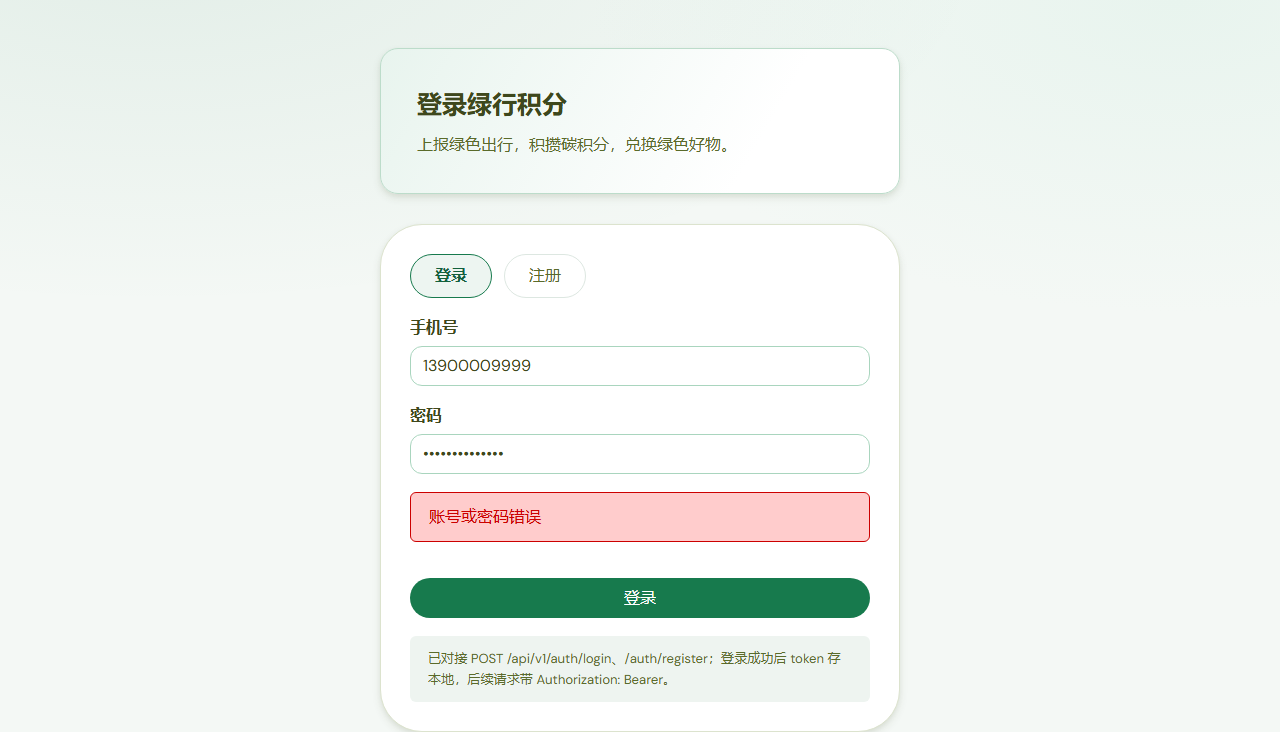
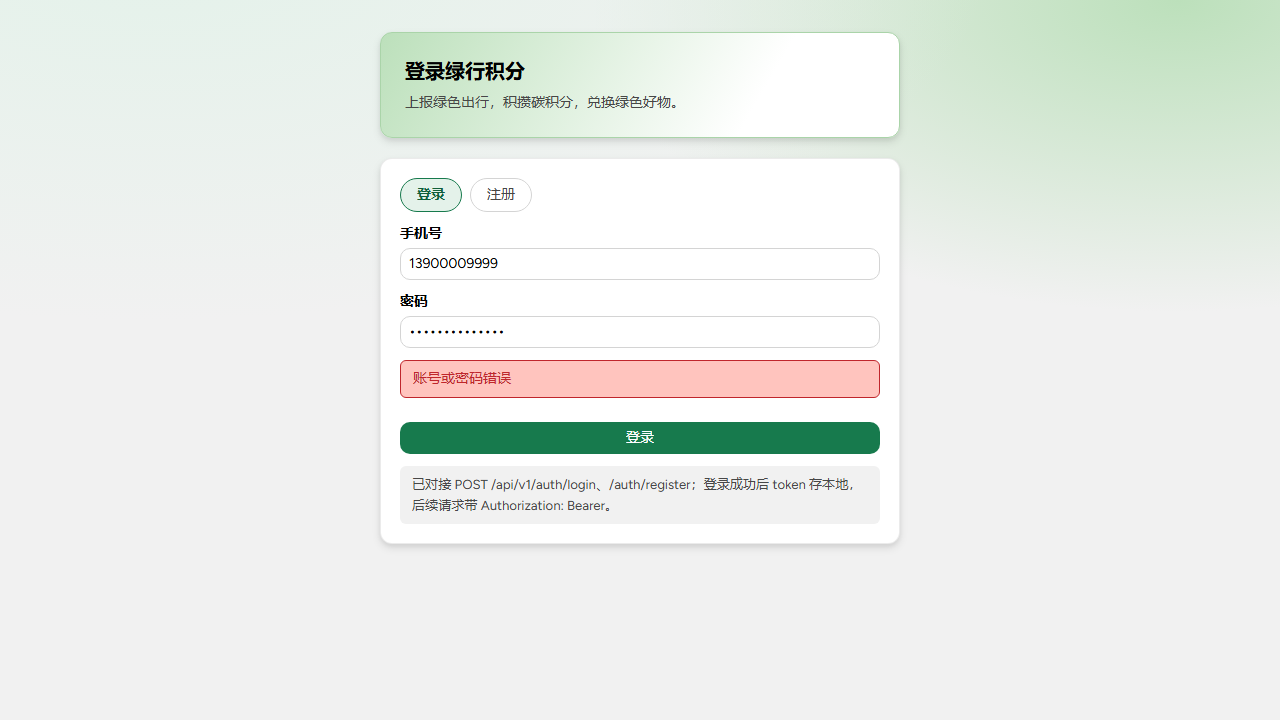
fix(api): 写超时跟随请求超时，避免慢请求被服务器掐断成 502
跨 ZeroTier 访问共享库时，兑换/取消这类写请求要 30s 上下（一个事务 6–8 条
SQL，每条一次跨网往返）。http.Server 的 WriteTimeout 原本写死 30s，比
middleware.Timeout(HTTP_REQUEST_TIMEOUT) 还早到期：handler 还在等数据库，
服务器先把连接关了，浏览器侧看到的是 Vite dev 代理的 502，而后端日志里
留的是一条 status=200 duration_ms≈30000 的成功记录，排查方向完全被带偏。

- apps/api/cmd/server/main.go：新增 serverWriteTimeout(requestTimeout)，
  WriteTimeout = 请求超时 + 15s；默认请求超时 15s 时仍是 30s，行为不变。
- apps/api/cmd/server/main_test.go：新增表驱动用例，固定「写超时晚于请求
  超时」这条不变量（15s→30s、90s→105s、0/负值回落默认）。
- apps/web/e2e/admin-console.e2e.ts：开跑前探一次种子账号登录，口令与当前
  后端不匹配就跳过并说明原因（共享库上 13800000002 的口令与本机开发库不同），
  可用 E2E_ADMIN_* / E2E_CITIZEN_* 环境变量覆盖。
- docs/dev/shared-db.md §6.6：补上超时链路与运营后台种子账号两条坑。
- AGENTS.md：E2E 用例表、超时数值、写超时约束与后台用例跳过策略同步。
- docs/screenshots/*：换用 green-travel 品牌主题后的双 E2E 截图。

diff --git a/apps/web/e2e/admin-console.e2e.ts b/apps/web/e2e/admin-console.e2e.ts
@@ -3,12 +3,39 @@ import { expect, test, type Page } from '@playwright/test'
 /**
  * M8 运营后台主链路（P5-3）：建商品 → 上架 → 消费者下单 → 后台看订单并确认收款。
  *
- * 账号来自本机开发库（scripts 之外的本地操作，不改 db/seed）：
+ * 账号默认来自本机开发库（scripts 之外的本地操作，不改 db/seed）：
  *   - 管理员 13800000002（user 1002，role=ADMIN）
  *   - 消费者 13800000001（user 1001，余额 1200 分）
+ *
+ * 跨机共享库（docs/dev/shared-db.md 里那台）的种子账号口令与本机开发库不同，
+ * 所以这条用例默认只在「接口在本机」时跑；要对着共享库跑，就显式给出
+ * E2E_ADMIN_PHONE / E2E_ADMIN_PASSWORD / E2E_CITIZEN_PHONE / E2E_CITIZEN_PASSWORD。
  */
-const ADMIN = { phone: '13800000002', password: 'admin123456' }
-const CITIZEN = { phone: '13800000001', password: 'demo123456' }
+const ADMIN = {
+  phone: process.env.E2E_ADMIN_PHONE ?? '13800000002',
+  password: process.env.E2E_ADMIN_PASSWORD ?? 'admin123456',
+}
+const CITIZEN = {
+  phone: process.env.E2E_CITIZEN_PHONE ?? '13800000001',
+  password: process.env.E2E_CITIZEN_PASSWORD ?? 'demo123456',
+}
+
+const accountsGiven = Boolean(process.env.E2E_ADMIN_PHONE || process.env.E2E_ADMIN_PASSWORD)
+
+// 开跑前先探一次登录：本机开发库有这两个种子账号，跨机共享库上同 phone 的口令不同。
+// 口令不对时直接跳过并说明原因，不要伪装成「页面卡在登录页」的产品缺陷。
+let skipReason = ''
+
+test.beforeAll(async ({ request }) => {
+  if (accountsGiven) return
+  for (const account of [ADMIN, CITIZEN]) {
+    const res = await request.post('/api/v1/auth/login', { data: account })
+    if (!res.ok()) {
+      skipReason = `种子账号 ${account.phone} 在当前后端登录失败（HTTP ${res.status()}）：该用例默认依赖本机开发库；对着共享库跑请用 E2E_ADMIN_PHONE / E2E_ADMIN_PASSWORD / E2E_CITIZEN_PHONE / E2E_CITIZEN_PASSWORD 覆盖`
+      return
+    }
+  }
+})
 
 async function login(page: Page, account: string, password: string) {
   await page.goto('/login')
@@ -20,6 +47,8 @@ async function login(page: Page, account: string, password: string) {
 }
 
 test('建商品 → 上架 → 下单 → 后台看订单并确认收款', async ({ page, browser }) => {
+  test.skip(Boolean(skipReason), skipReason)
+
   const productName = `E2E环保水杯-${Date.now()}`
 
   // 1. 管理员登录，新建商品（默认 DRAFT）

diff --git a/apps/api/cmd/server/main.go b/apps/api/cmd/server/main.go
@@ -82,8 +82,12 @@ func run() error {
 		}),
 		ReadHeaderTimeout: 5 * time.Second,
 		ReadTimeout:       30 * time.Second,
-		WriteTimeout:      30 * time.Second,
-		IdleTimeout:       60 * time.Second,
+		// 写超时必须在业务请求超时之后到期，否则 middleware.Timeout 还没到，
+		// 服务器就先把连接掐断：客户端（含 Vite dev 代理）看到 502，
+		// 后端日志里只剩一条 duration≈30s 的成功记录。跨机共享库上单个写请求
+		// 动辄 20–40s，这条关系是硬要求。
+		WriteTimeout: serverWriteTimeout(cfg.HTTPRequestTimeout),
+		IdleTimeout:  60 * time.Second,
 	}
 
 	ctx, stop := signal.NotifyContext(context.Background(), os.Interrupt, syscall.SIGTERM)
@@ -121,4 +125,16 @@ func newLogger(env string) *slog.Logger {
 		return slog.New(slog.NewTextHandler(os.Stdout, opts))
 	}
 	return slog.New(slog.NewJSONHandler(os.Stdout, opts))
+}
+
+// serverWriteTimeout 让 http.Server 的写超时始终晚于业务请求超时到期。
+//
+// middleware.Timeout(RequestTimeout) 只是给 handler 的 ctx 加上截止时间，真正把
+// 响应写回连接的是 http.Server；两者的关系反了（WriteTimeout 更短）就会出现
+// 「handler 还在等数据库，服务器已经关连接」——客户端看到 502，日志里却是成功。
+func serverWriteTimeout(requestTimeout time.Duration) time.Duration {
+	if requestTimeout <= 0 {
+		requestTimeout = 15 * time.Second
+	}
+	return requestTimeout + 15*time.Second
 }

diff --git a/apps/api/cmd/server/main_test.go b/apps/api/cmd/server/main_test.go
@@ -1,0 +1,31 @@
+package main
+
+import (
+	"testing"
+	"time"
+)
+
+func TestServerWriteTimeoutFollowsRequestTimeout(t *testing.T) {
+	cases := []struct {
+		name           string
+		requestTimeout time.Duration
+		want           time.Duration
+	}{
+		{name: "默认请求超时 15s 时写超时 30s，与改造前一致", requestTimeout: 15 * time.Second, want: 30 * time.Second},
+		{name: "共享库场景把请求超时抬到 90s，写超时必须跟着抬高", requestTimeout: 90 * time.Second, want: 105 * time.Second},
+		{name: "零值回落默认 15s 再加余量", requestTimeout: 0, want: 30 * time.Second},
+		{name: "负值同样回落默认", requestTimeout: -time.Second, want: 30 * time.Second},
+	}
+
+	for _, c := range cases {
+		t.Run(c.name, func(t *testing.T) {
+			got := serverWriteTimeout(c.requestTimeout)
+			if got != c.want {
+				t.Fatalf("serverWriteTimeout(%v) = %v, want %v", c.requestTimeout, got, c.want)
+			}
+			if c.requestTimeout > 0 && got <= c.requestTimeout {
+				t.Fatalf("写超时 %v 必须晚于请求超时 %v，否则慢请求会被服务器提前掐断", got, c.requestTimeout)
+			}
+		})
+	}
+}

diff --git a/AGENTS.md b/AGENTS.md
@@ -293,7 +293,7 @@ pages/*.tsx  ──►  services/*.ts  ──►  lib/http.ts  ──►  fetch
 | 启动日志单测 | `apps/api/cmd/server/dbendpoint_test.go` | 1 个函数 / 9 例 | 表驱动：默认 DSN、局域网 / ZeroTier、localhost、IPv6 回环、unix socket、省略地址、非法 DSN |
 | 前端单测 | `apps/web/src/lib/*.test.ts` | 2 文件 19 例 | `http.test.ts` 用 `vi.stubGlobal('fetch')` 测解包与错误映射；`validators.test.ts` 测校验规则 |
 | 前端页面测试 | `apps/web/src/pages/*.test.tsx` | 5 文件 16 例 | jsdom + Testing Library + MSW 3 拦截 `fetch`；`src/test/render.tsx` 提供 QueryClient/路由壳，`src/test/http.ts` 造 `{code,message,data}` 壳（测试里也重放后端协议，不是随手 mock） |
-| E2E 主链路 | `apps/web/e2e/*.spec.ts` | 1 文件 2 例 | Playwright + Chromium，跑**真实前后端与共享库**，不 mock；每步落截图到 `docs/screenshots/` |
+| E2E 主链路 | `apps/web/e2e/*.spec.ts`、`apps/web/e2e/*.e2e.ts` | 2 文件 3 例 | Playwright + Chromium，跑**真实前后端与共享库**，不 mock；消费者主链路每步落截图到 `docs/screenshots/`；运营后台用例依赖本机开发库种子账号 |
 
 ### 新增功能的底线
 
@@ -324,7 +324,16 @@ $env:E2E_API_TARGET = 'http://127.0.0.1:18080'   # Playwright 启动 vite 时注
 npm run test:e2e
 ```
 
-共享库跨 ZeroTier：写接口单次 10–20s、读接口 1–5s，所以 `playwright.config.ts` 的 `timeout` 是 180s、`expect.timeout` 是 30s，不要按常规项目压到 5–10s。
+共享库跨 ZeroTier：写接口单次 10–40s、读接口 1–5s，所以 `playwright.config.ts` 的 `timeout` 是 300s、`expect.timeout` 与 `actionTimeout` 都是 120s，不要按常规项目压到 5–10s。
+
+写接口的超时链路要一起看：`apps/api/cmd/server/main.go` 里 `WriteTimeout = serverWriteTimeout(cfg.HTTPRequestTimeout)`（请求超时 + 15s），必须**晚于** `middleware.Timeout` 到期，否则慢请求会在响应当前被服务器掐断，浏览器/dev 代理侧看到 502，而后端日志里只留一条 duration≈30s 的成功记录。
+
+运营后台用例（`apps/web/e2e/admin-console.e2e.ts`）默认只在接口指向本机时运行：共享库上的种子管理员口令与本机开发库不同。要对着共享库跑，显式给账号：
+
+```powershell
+$env:E2E_ADMIN_PHONE = '13800000002'; $env:E2E_ADMIN_PASSWORD = '<共享库口令>'
+$env:E2E_CITIZEN_PHONE = '13800000001'; $env:E2E_CITIZEN_PASSWORD = '<共享库口令>'
+```
 
 ---
 

diff --git a/docs/dev/shared-db.md b/docs/dev/shared-db.md
@@ -180,6 +180,8 @@ git pull --rebase          # 拿迁移文件（留档 / 本地库复现用）
 
 两个直接后果：
 
-1. **前端 E2E 的超时必须放宽**：`apps/web/playwright.config.ts` 里 `timeout: 180_000`、`expect.timeout: 30_000`，压到 5–10 s 会稳定假失败（第一次跑就是被 30 s 的 URL 断言卡住的）。
+1. **前端 E2E 的超时必须放宽**：`apps/web/playwright.config.ts` 里 `timeout: 300_000`、`expect.timeout` 与 `actionTimeout` 都是 `120_000`，压到 5–10 s 会稳定假失败（第一次跑就是被 30 s 的 URL 断言卡住的）。
 2. **`/readyz` 冷启动会 503**：`apps/api/internal/httpserver/health.go` 里探活超时写死 2 s，而冷连接要 2–3 s。想让就绪检查变绿，先打一次真实接口把连接池热起来，或者等代码把超时调大。
+3. **写请求会比服务器的写超时先撞线**：`apps/api/cmd/server/main.go` 原本把 `WriteTimeout` 写死 30 s，比 `HTTP_REQUEST_TIMEOUT` 还早到期，于是 30 s 左右的兑换/取消会以 502 出现在浏览器侧（Vite dev 代理把被掐断的连接报成 502），而后端日志里是一条 `status=200 duration_ms≈30000`。现在 `WriteTimeout = serverWriteTimeout(cfg.HTTPRequestTimeout)`（请求超时 + 15 s），对着共享库跑时把 `HTTP_REQUEST_TIMEOUT=90s` 才有意义。
+4. **运营后台 E2E 的种子账号只在本机开发库有效**：共享库里 `13800000002`（ADMIN）的口令哈希与本机不同，`apps/web/e2e/admin-console.e2e.ts` 已改成开跑前探一次登录、失败就跳过并给出原因；要真跑，用 `E2E_ADMIN_PHONE` / `E2E_ADMIN_PASSWORD` / `E2E_CITIZEN_PHONE` / `E2E_CITIZEN_PASSWORD` 覆盖。
 
